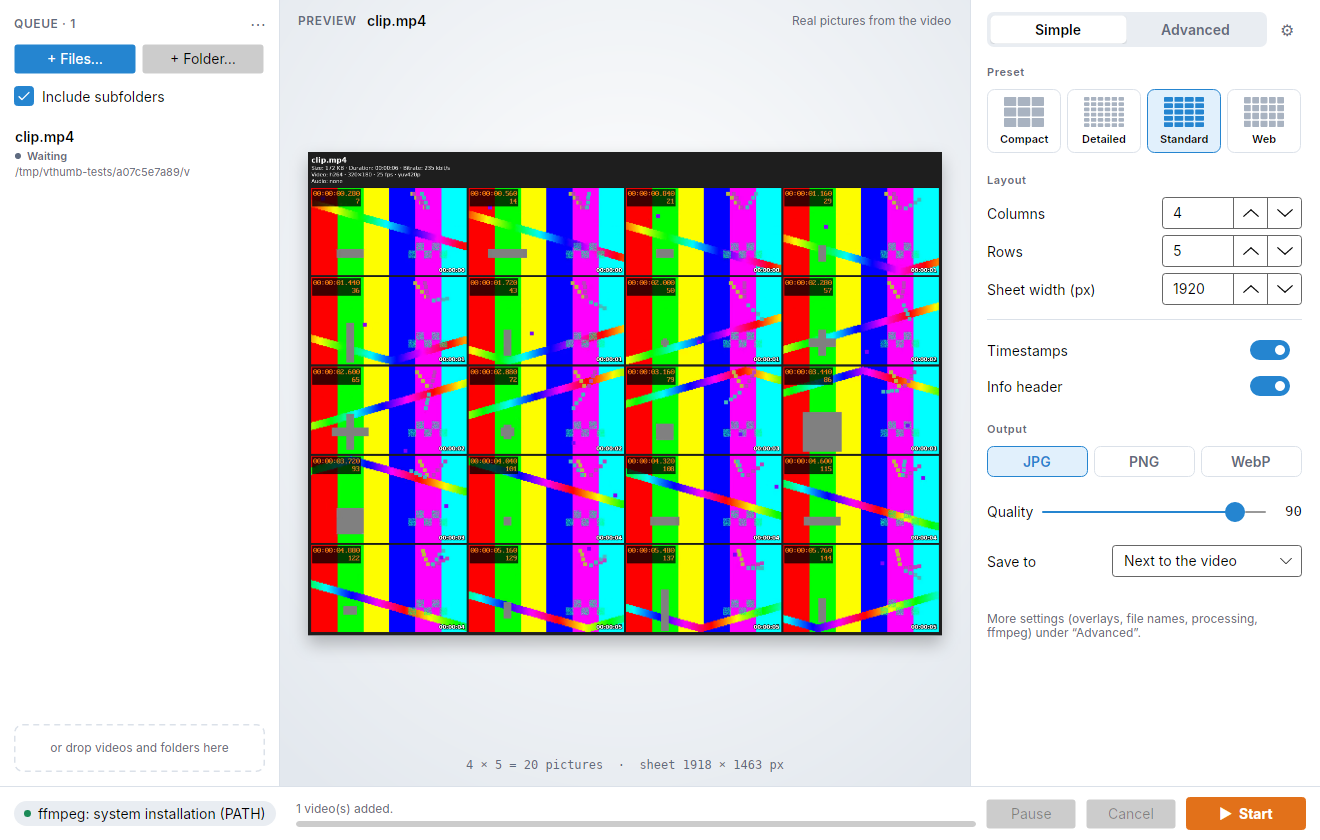
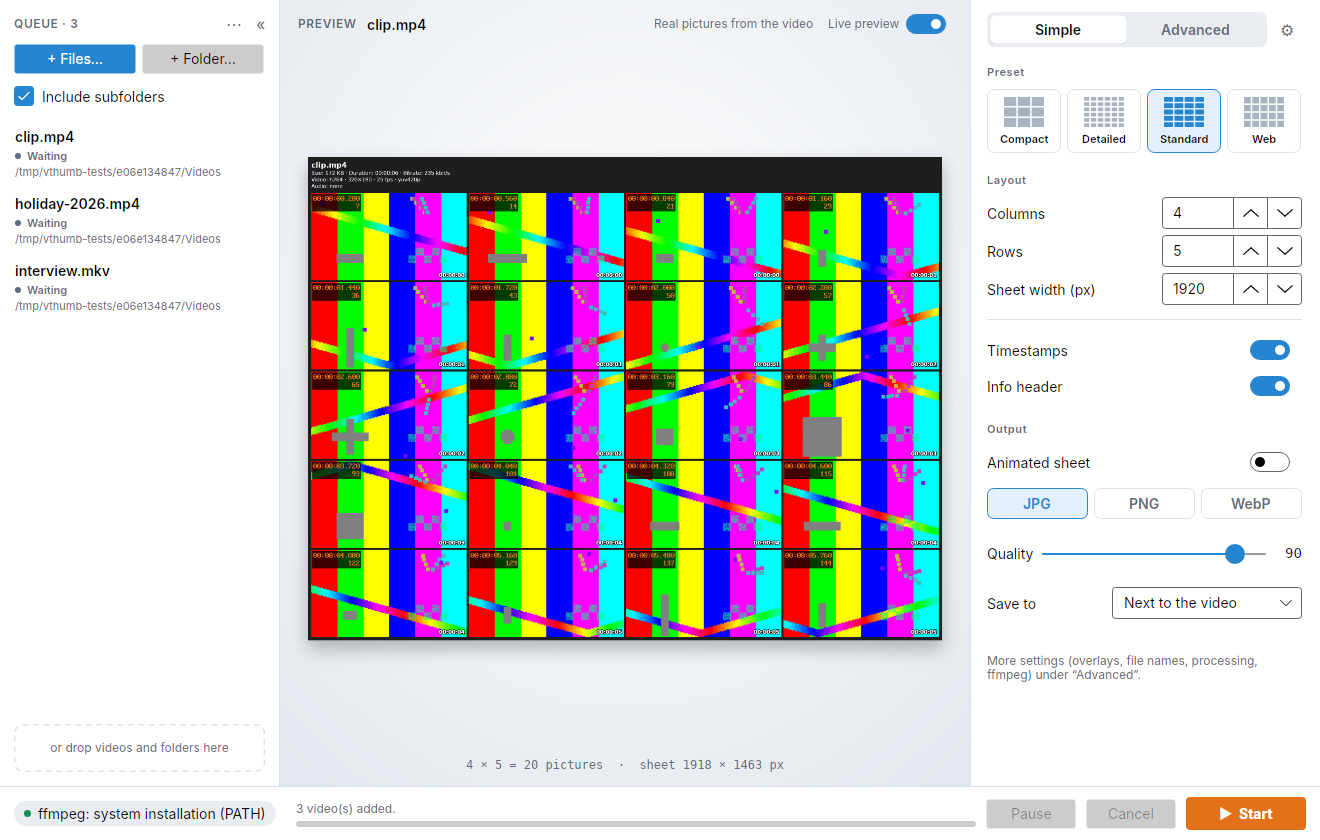
README: new screenshots of the current UI, generated by a test
Claude-Session: https://claude.ai/code/session_01XRaogdX8jE5R1WPdv1m5mB

diff --git a/tests/VideoThumbnailer.Tests/GuiTests.cs b/tests/VideoThumbnailer.Tests/GuiTests.cs
@@ -177,6 +177,70 @@ public class GuiTests
 
 public class GuiPreviewTests
 {
+    /// <summary>
+    /// Renders the README screenshots (docs/images) when VTHUMB_README_SHOTS points to a folder: light "Simple" mode,
+    /// dark "Advanced" mode scrolled to the timestamp colors, and a narrow window with the folded queue, all with
+    /// real frames of a test clip. Without the variable it only checks that the scenes come up.
+    /// </summary>
+    [AvaloniaFact]
+    public async Task Readme_screenshots()
+    {
+        var t = PreviewSourceTests.Tools();
+        var home = TestUtil.TempDir();
+        AppPaths.SetRootOverride(home);
+        try
+        {
+            new AppSettings { FfmpegDownloadAsked = true, CheckFfmpegUpdates = false, Language = "English" }.Save();
+            var dir = Directory.CreateDirectory(Path.Combine(home, "Videos")).FullName;
+            var video = PreviewSourceTests.MakeVideo(t, dir);
+            File.Copy(video, Path.Combine(dir, "holiday-2026.mp4"));
+            File.Copy(video, Path.Combine(dir, "interview.mkv"));
+            var outDir = Environment.GetEnvironmentVariable("VTHUMB_README_SHOTS");
+            void Shot(Window w, string name)
+            {
+                Avalonia.Threading.Dispatcher.UIThread.RunJobs();
+                if (string.IsNullOrEmpty(outDir)) return;
+#pragma warning disable CS0618
+                w.CaptureRenderedFrame()?.Save(Path.Combine(outDir, name));
+#pragma warning restore CS0618
+            }
+
+            var window = new MainWindow();
+            var vm = new MainViewModel(window);
+            window.DataContext = vm;
+            window.Show();
+            vm.AddPaths([video, Path.Combine(dir, "holiday-2026.mp4"), Path.Combine(dir, "interview.mkv")]);
+            await vm.UpdatePreviewAsync();
+            Assert.Equal(Loc.T("PreviewNoteReal"), vm.PreviewNote);
+            Shot(window, "gui.png");
+
+            vm.Language = UiLanguage.German;
+            await vm.UpdatePreviewAsync();
+            Shot(window, "gui-de.png");
+            vm.Language = UiLanguage.English;
+
+            vm.IsAdvanced = true;
+            vm.Theme = UiTheme.Dark;
+            await vm.UpdatePreviewAsync();
+            Avalonia.Threading.Dispatcher.UIThread.RunJobs();
+            window.FindControl<CheckBox>("MillisecondsCheck")!.BringIntoView();
+            Assert.True(window.FindControl<ColorField>("OutlineColorField")!.IsEffectivelyVisible);
+            Shot(window, "gui-dark.png");
+
+            vm.IsAdvanced = false;
+            vm.Theme = UiTheme.Light;
+            window.Width = 980;
+            await vm.UpdatePreviewAsync();
+            Assert.True(vm.IsQueueCollapsed);
+            Shot(window, "gui-narrow.png");
+            window.Close();
+        }
+        finally
+        {
+            AppPaths.SetRootOverride(null);
+        }
+    }
+
     [AvaloniaFact]
     public async Task Preview_shows_real_frames_and_video_data_of_the_selected_video()
     {

diff --git a/docs/DECISIONS.md b/docs/DECISIONS.md
@@ -176,6 +176,11 @@ Die Feature-Spezifikation (mit Prioritäten P1–P3) liegt außerhalb des Repos;
 | 26.11.2026 | Eine Schrift für den ganzen Bogen (Info-Kopf und Zeitstempel), wie bisher im Preset (`fontFamily`); keine getrennten Schriften je Bereich | hält Presets und CLI unverändert; getrennte Schriften wären ein eigenes Thema |
 | 26.11.2026 | Schriften, die die Oberfläche nicht lesen kann (in der Testumgebung brachte eine Systemschrift Avalonia zum Absturz), werden in der Liste in der Standardschrift gezeigt statt die App abstürzen zu lassen | Absicherung gegen kaputte oder exotische Schriftdateien |
 
+### README-Screenshots (#NN)
+| Datum | Entscheidung | Begründung / Anmerkung |
+|---|---|---|
+| 26.11.2026 | Die Bilder in `docs/images` (`gui.png`, `gui-de.png`, `gui-dark.png`, `gui-narrow.png`) erzeugt der Test `Readme_screenshots` (headless, echtes Testvideo per ffmpeg): `VTHUMB_README_SHOTS=$PWD/docs/images dotnet test --filter Readme_screenshots` (absoluter Pfad). Neu ist das Bild mit eingeklappter Warteschlange im schmalen Fenster | Bilder lassen sich nach jeder Oberflächenänderung mit einem Befehl neu erzeugen |
+
 ## Offen
 
 | Seit | Punkt | Stand |
@@ -187,9 +192,7 @@ Die Feature-Spezifikation (mit Prioritäten P1–P3) liegt außerhalb des Repos;
 | 26.11.2026 | Windows arm64 hat keinen fest hinterlegten ffmpeg-Build (BtbN hebt Builds nur 14 Tage auf, gyan.dev baut kein arm64) | bei einer dauerhaften arm64-Quelle nachziehen |
 | 26.11.2026 | Workflow „ffmpeg pins“ hat seit #19 noch keinen neuen Build eingetragen. Seine Commits mit `GITHUB_TOKEN` starten keine CI; wird `main` geschützt, schlägt sein direkter Push fehl. Die Adresse der Liste (`FfmpegPins.RemoteUrl`) enthält den Repo-Namen | ersten echten Lauf beobachten |
 | 26.11.2026 | Kommandozeile kann nicht alle Einstellungen als Option setzen (u. a. Zeitstempel-Farbe, Deckkraft, Schriftgröße, Kontur, Schatten, Millisekunden, Farben des Info-Kopfs); bisher nur über ein Preset | wird ergänzt |
-| 26.11.2026 | Farbauswahl- und Schriftauswahl-Dialog in der Oberfläche (bisher Hex-Textfelder bzw. Schriftname als Text) | Wunsch von Vulli, wird umgesetzt |
 | 26.11.2026 | Release-Notizen auf GitHub sind die automatisch erzeugte PR-Liste, nicht der CHANGELOG-Abschnitt. Das Release v0.3.0 heißt „v.0.3.0“ (Tippfehler im Titel) | Notizen beim nächsten Release aus dem CHANGELOG übernehmen; Titel von Hand korrigieren |
-| 26.11.2026 | Screenshots in `docs/images` stammen aus #8/#11 und zeigen weder den Schalter für animierte Sheets, die einklappbare Warteschlange noch die Farbfelder aus #18 | neu erzeugen, sobald Farb- und Schriftdialog fertig sind |
 
 ## Spätere Ideen (P2/P3, noch ohne Entscheidung)
 

diff --git a/CHANGELOG.md b/CHANGELOG.md
@@ -9,13 +9,12 @@ Neue Einträge kommen mit jedem Pull Request unter „Unveröffentlicht“ und w
 ### Hinzugefügt
 - Farbwähler: Klick auf das Farbmuster neben einem Farbfeld öffnet Spektrum, Palette und Regler mit Deckkraft; die Hex-Eingabe bleibt ([#42])
 - Schriftauswahl: „…“ neben der Schriftart öffnet eine durchsuchbare Liste der installierten Schriften, jede in ihrer eigenen Schrift, mit Vorschau von Info-Kopf und Zeitstempel ([#42])
-### Geändert
-- Dokumentation auf den Stand von v0.5.0 gebracht: erledigte und doppelte offene Punkte in `docs/DECISIONS.md` bereinigt, überholte Entscheidungen markiert, README (Funktionen, Inhalt der ZIPs, Aufbau) aktualisiert; spätere Ideen aus der Spezifikation als Issues #21–#39 ([#41])
-### Hinzugefügt
 - Kommandozeile kann jetzt jede Preset-Einstellung setzen: Zeitstempel (`--timestamp-size`, `--timestamp-color`, `--timestamp-opacity`, `--timestamp-bold`, `--timestamp-padding`, `--outline-color`, `--outline-width`, `--no-outline`, `--shadow`/`--no-shadow`, `--shadow-color`, `--shadow-offset`, `--milliseconds`), Info-Kopf (`--title-size`, `--header-size`, `--title-color`, `--header-color`, `--line-spacing`), Einzelbilder (`--frames-folder`, `--no-frames`) sowie `--timestamps`, `--header`, `--portrait-swap`, `--no-keep-structure` und `--description` zum Zurückschalten bzw. für `--save-preset` ([#40])
 
 ### Geändert
+- Dokumentation auf den Stand von v0.5.0 gebracht: erledigte und doppelte offene Punkte in `docs/DECISIONS.md` bereinigt, überholte Entscheidungen markiert, README (Funktionen, Inhalt der ZIPs, Aufbau) aktualisiert; spätere Ideen aus der Spezifikation als Issues #21–#39 ([#41])
 - Farben auf der Kommandozeile werden geprüft: ungültige Werte (auch bei `--background`) brechen mit einer Meldung ab, statt still die Standardfarbe zu nehmen ([#40])
+- README-Screenshots neu: aktuelle Oberfläche mit echten Bildern, Schalter „Animiertes Sheet“, Farbfeldern in „Erweitert“ (dunkel) und eingeklappter Warteschlange im schmalen Fenster; erzeugt per Test `Readme_screenshots` ([#NN])
 
 ## [0.5.0] – 2026-11-26
 
@@ -120,6 +119,7 @@ Erste Version.
 [#1]: https://github.com/vulture20/Video-Thumbnailer/pull/1
 [#2]: https://github.com/vulture20/Video-Thumbnailer/pull/2
 [#42]: https://github.com/vulture20/Video-Thumbnailer/pull/42
+[#NN]: https://github.com/vulture20/Video-Thumbnailer/pull/NN
 [#3]: https://github.com/vulture20/Video-Thumbnailer/pull/3
 [#4]: https://github.com/vulture20/Video-Thumbnailer/pull/4
 [#5]: https://github.com/vulture20/Video-Thumbnailer/pull/5

diff --git a/README.md b/README.md
@@ -28,9 +28,9 @@ Free, cross-platform video contact sheet generator with GUI and command line.
 
 ![Oberfläche, Modus „Einfach“](docs/images/gui.png)
 
-<sub>Die Bilder stammen aus v0.2.0/v0.3.0: animierte Sheets, die einklappbare Warteschlange und die Farbfelder sind darauf noch nicht zu sehen.</sub>
+![Modus „Erweitert“ in dunkler Darstellung, mit Farbfeldern und Farbwähler am Farbmuster](docs/images/gui-dark.png)
 
-![Modus „Erweitert“ in dunkler Darstellung](docs/images/gui-dark.png)
+![Schmales Fenster: die Warteschlange ist zu einer Leiste eingeklappt](docs/images/gui-narrow.png)
 
 ## Download und Start
 
